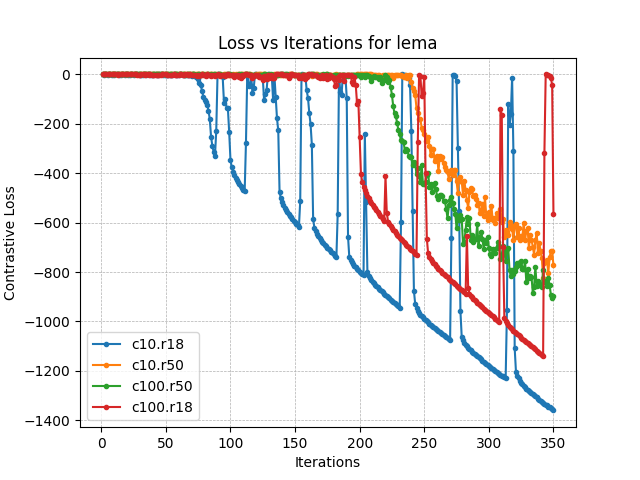
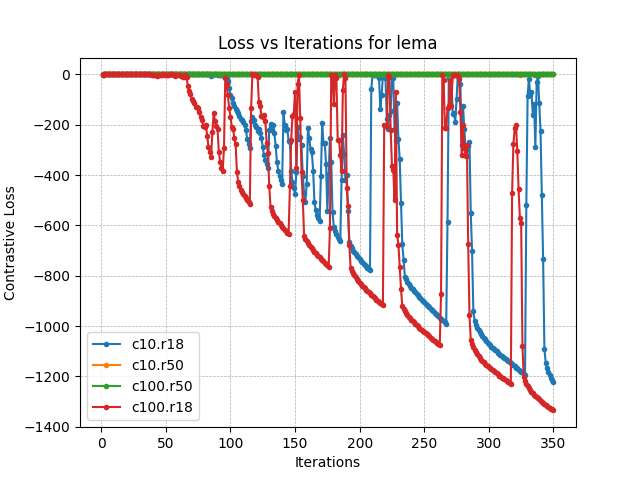
uploading lema fix bug

diff --git a/train_utils.py b/train_utils.py
@@ -344,10 +344,14 @@ def train_lema( # low energy manifolds based representation learning
             proj_feat_cap = output_cap["proj_features"]
 
             feat = output["features"]
+            # feat_cap = output["features"]
             feat_cap = output_cap["features"]
 
-            esample = energy_model.langevin_sampling(feat, z_0 = feat_cap)
-            esample_cap = energy_model.langevin_sampling(feat_cap, z_0 = feat)
+            # esample = energy_model.langevin_sampling(feat, z_0 = feat_cap)
+            # esample_cap = energy_model.langevin_sampling(feat_cap, z_0 = feat)
+
+            esample = energy_model.langevin_sampling(feat, z_0 = feat)
+            esample_cap = energy_model.langevin_sampling(feat_cap, z_0 = feat_cap)
             
             loss_con = lossfunction(proj_feat, proj_feat_cap) + F.mse_loss(esample.detach(), feat) + F.mse_loss(esample_cap.detach(), feat_cap)
             
@@ -356,7 +360,10 @@ def train_lema( # low energy manifolds based representation learning
             optimizer.step()
 
             # training energy model
-            pos_energy = energy_model(feat.detach(), feat_cap.detach())
+            # pos_energy = energy_model(feat.detach(), feat_cap.detach())
+            # neg_energy = energy_model(esample.detach(), esample_cap.detach())
+
+            pos_energy = energy_model(feat.detach(), feat.detach()) + energy_model(feat_cap.detach(), feat_cap.detach())
             neg_energy = energy_model(esample.detach(), esample_cap.detach())
             energy_loss = pos_energy.mean() - neg_energy.mean()
 
